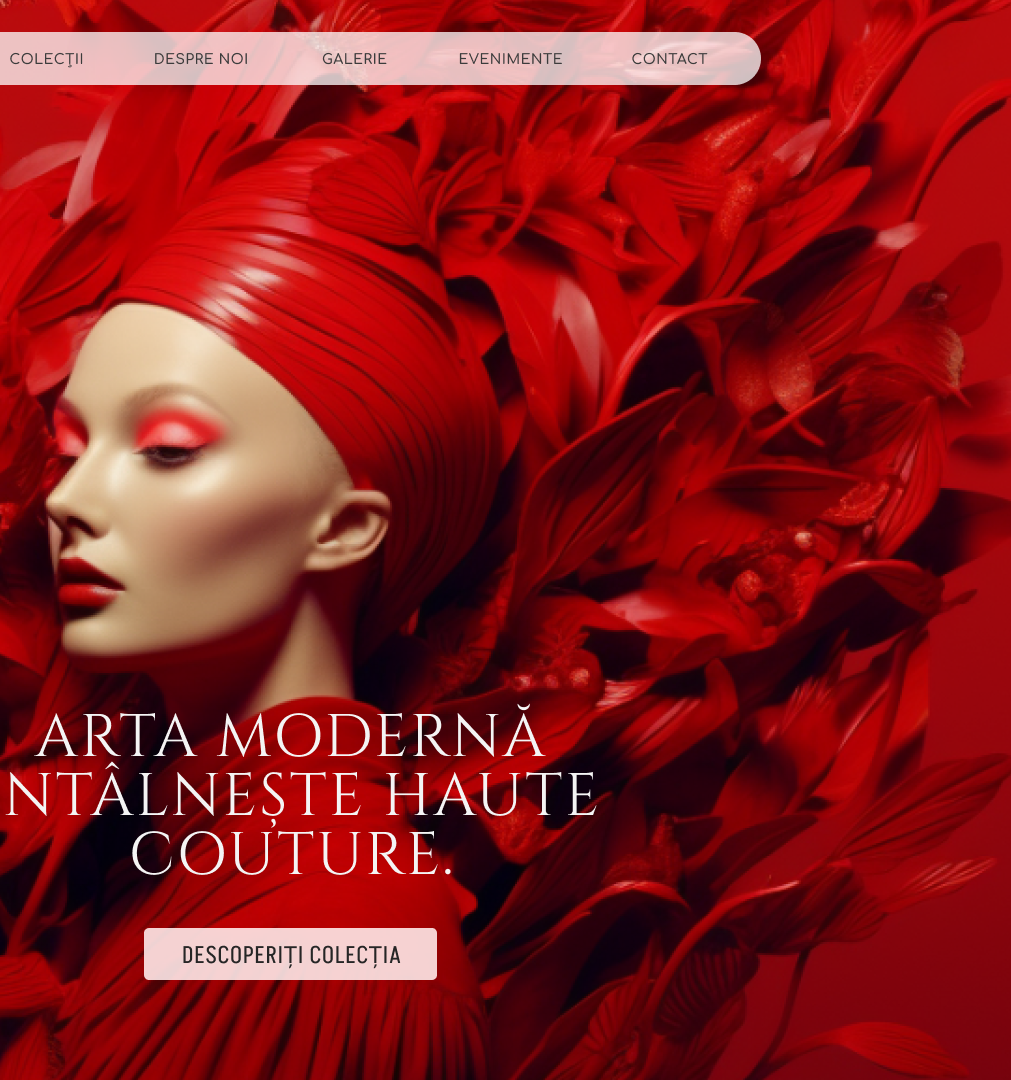
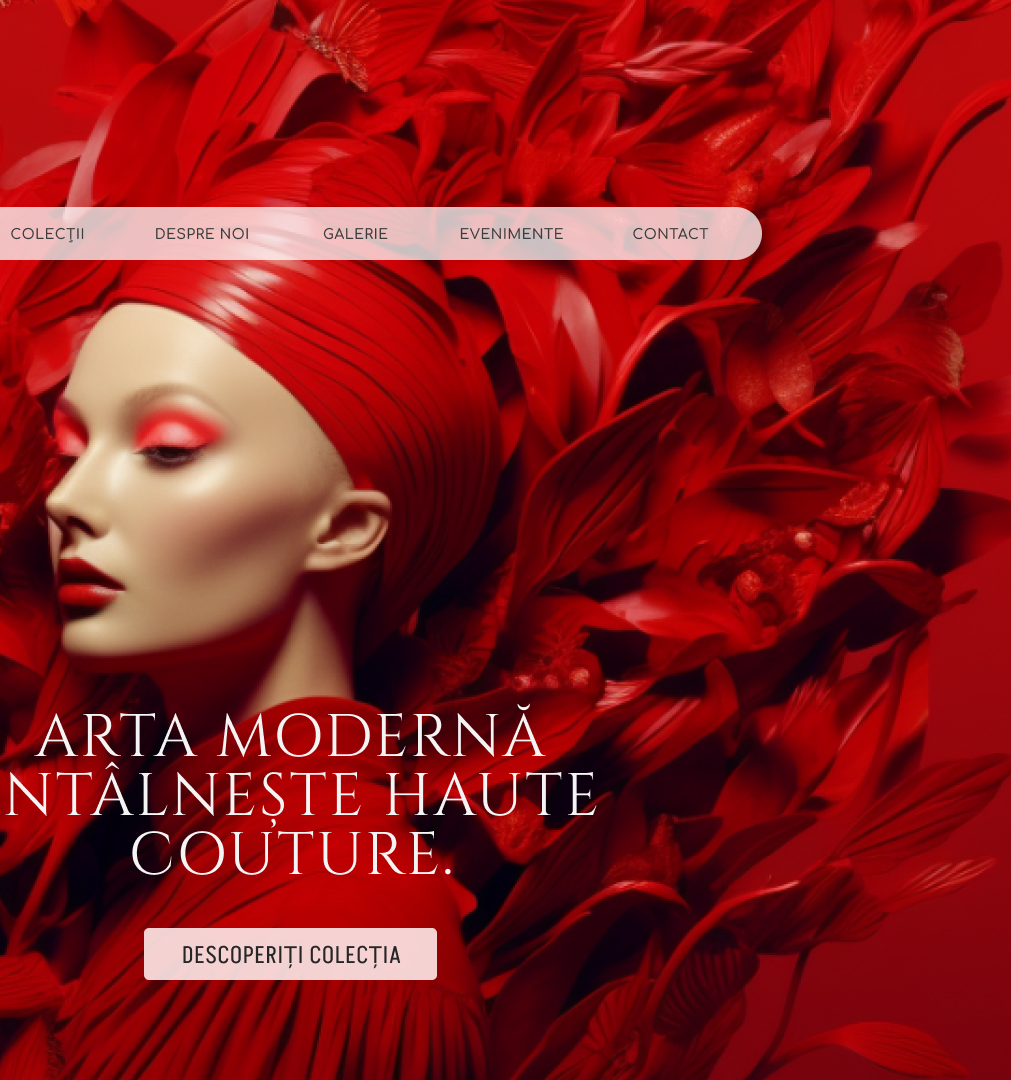
Fixed some bugs on windows, added blur background animation

Changed region(s): [[0.0, 0.1833, 0.7666, 0.2444], [0.0, 0.0306, 0.7666, 0.0917]]

diff --git a/js/menu.js b/js/menu.js
@@ -147,6 +147,8 @@ document.addEventListener('DOMContentLoaded', function () {
     function closeMenu() {
         if (showCode !== 0) {
             hideMenuSection();
+            menuSection.classList.add('animate-remove-blur'); // Adăugăm animația pentru eliminarea blurului
+            menuSection.classList.remove('animate-apply-blur');
             showCode = 0;
         }
     }
